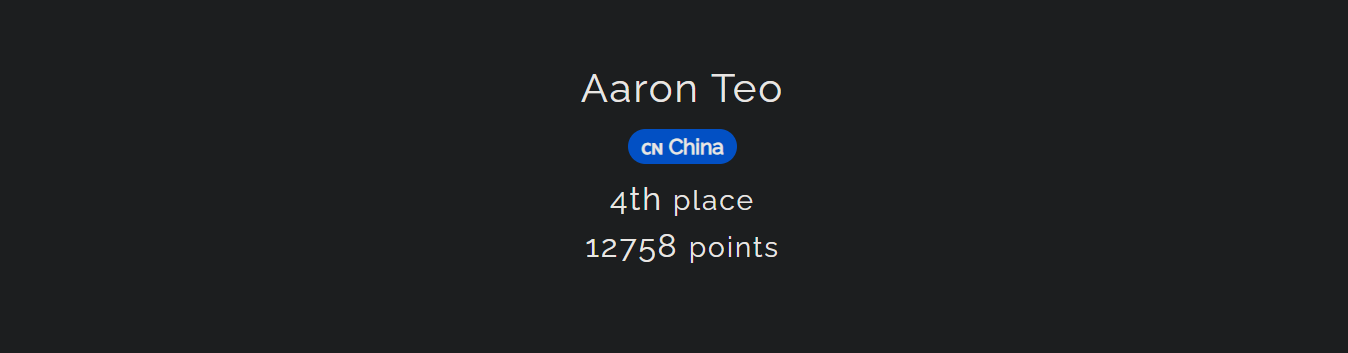
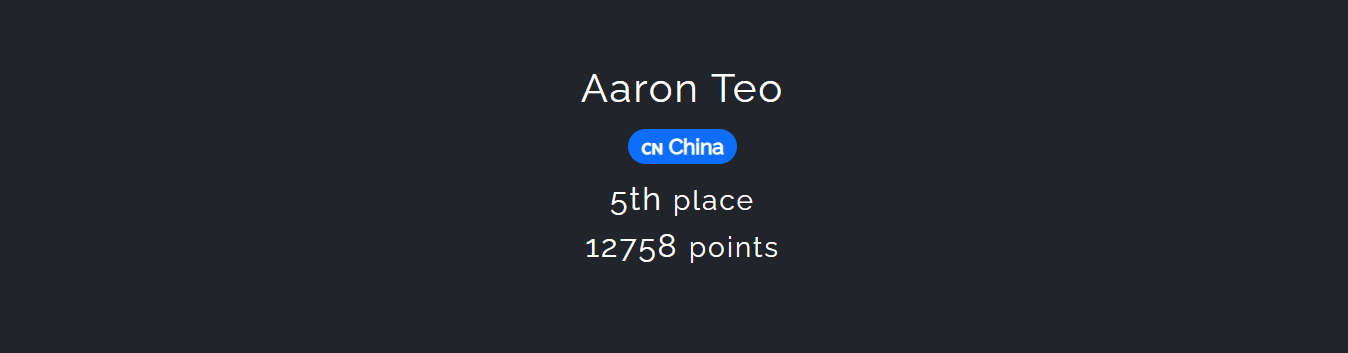
fix: final placement

diff --git a/README.md b/README.md
@@ -1,10 +1,10 @@
 ![CTF Profile](.files/.jumbotron.png "CTF Profile")
 
-# CTF-NYP-DEC-2023 ![Final Position](https://img.shields.io/badge/Finished_4th_Place_Overall-12758_Points-brightgreen?style=for-the-badge) ![Final Position](<https://img.shields.io/badge/Finished_3rd_Place_(Year_2_Category)-brightgreen?style=for-the-badge>)
+# CTF-NYP-DEC-2023 ![Final Position](https://img.shields.io/badge/Finished_5th_Place_Overall-12758_Points-brightgreen?style=for-the-badge) ![Final Position](<https://img.shields.io/badge/Finished_3rd_Place_(Year_2_Category)-brightgreen?style=for-the-badge>)
 
 A collection of writeups for NYP InfoSec (SIG)'s CTF organised in Dec 2023.
 
-Completed 3rd position for Year 2 category, and 4th position of 48 competitors overall.
+Completed 3rd position for Year 2 category, and 5th position of 48 competitors overall.
 
 Frozen Scoreboard: [Scoreboard Screenshot](.files/.scoreboard.png) <br />
 Completed Challenges: [Challenges Screenshot](.files/.challenges.png)
